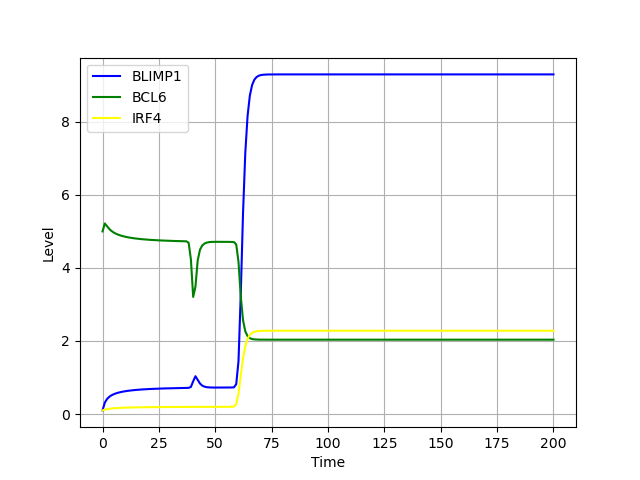
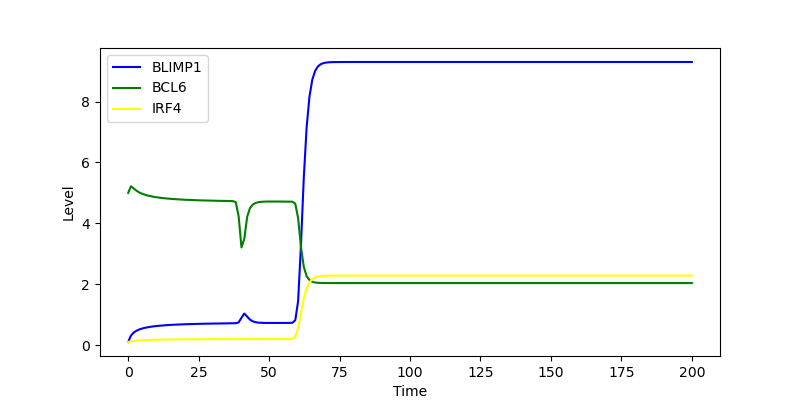
script rund the initial_implementation

diff --git a/parametter_fitting_final.py b/parametter_fitting_final.py
@@ -84,14 +84,13 @@ def solve_differential_equation(gc_pathway_exit, arguments, initial_conditions =
 def visualise_model(arguments, save_path):
     _, _,  P, B, R, _ = solve_differential_equation(gc_pathway_exit, arguments)
     time = np.linspace(0,200,200)
-    plt.figure()
+    plt.figure(figsize=(8,4))
     plt.plot(time, P, "blue", label="BLIMP1")
     plt.plot(time, B, "green", label = "BCL6")
     plt.plot(time, R, "yellow", label = "IRF4")
     plt.xlabel("Time")
     plt.ylabel("Level")
     plt.legend()
-    plt.grid()
     plt.savefig(save_path)
     plt.show()
 

diff --git a/script.py b/script.py
@@ -1,9 +1,17 @@
 from parametter_fitting_final import *
 
+def run_experiments():
+
+    #integrate the system of ODE's 
+    visualise_model((10**(-6), 2, 0.1, 9, 100, 2.6), "figures/solved_model.png")
+
+
+
 
 if __name__ == "__main__":
 
-    visualise_model((10**(-6), 2, 0.1, 9, 100, 2.6), "figures/solved_model.png")
+    run_experiments()
+   
     #solve_differential_equation(gc_pathway_exit, (0.1,5,0.1),(10**(-6), 2, 0.1, 9, 100, 2.6))
     #load_the_data("C:/for_python/bio_inf/bio_informatics/data.xlsx")
 
